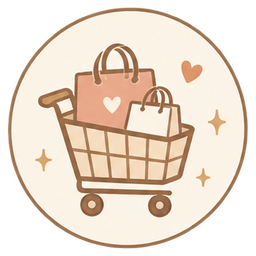
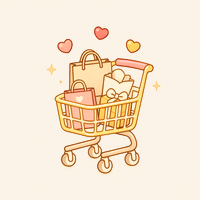
換上韓系可愛風格的購物車圖示
購物車改用 Canva 產生的新插畫，底色、細框與其他四個圖示一致，網址加 ?v=3。

diff --git a/index.html b/index.html
@@ -3461,7 +3461,7 @@ body.halloween-mode .product-card:active {
       <span class="cart-badge" id="myOrdersBadge" data-count="0"></span>
     </button>
     <button class="cart-btn cart-btn-img" onclick="openCart()" aria-label="購物車">
-      <img src="./icons/cart.png" alt="" class="cart-btn-icon"><span class="cart-btn-label">購物車</span>
+      <img src="./icons/cart.png?v=3" alt="" class="cart-btn-icon icon-ring"><span class="cart-btn-label">購物車</span>
       <span class="cart-badge" id="cartBadge" data-count="0"></span>
     </button>
   </div>
